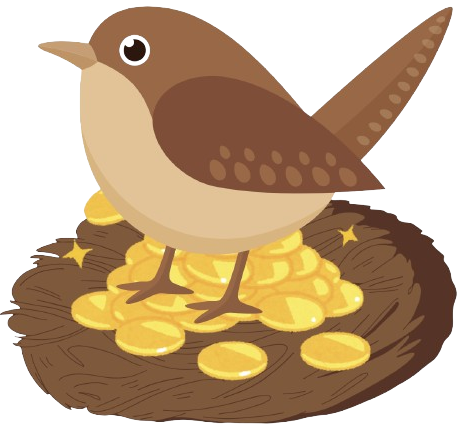
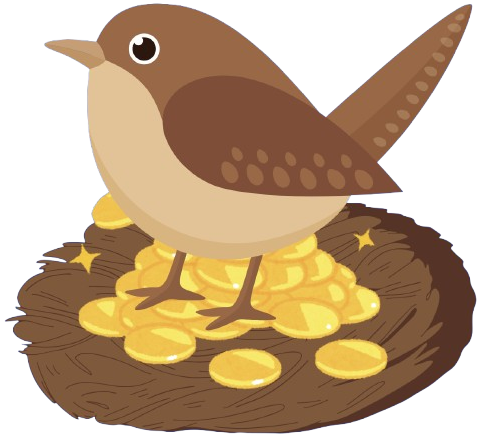
onboarding screen

diff --git a/lib/screens/onboarding_screen.dart b/lib/screens/onboarding_screen.dart
@@ -68,7 +68,7 @@ class FirstOnboardingPage extends StatelessWidget {
                         textAlign: TextAlign.center,
                         style: GoogleFonts.poppins(
                           fontSize: 20,
-                          color: const Color(0xFFC5A787),
+                          color: Colors.black,
                           fontWeight: FontWeight.normal,
                         ),
                       ),
@@ -95,7 +95,7 @@ class FirstOnboardingPage extends StatelessWidget {
                         textAlign: TextAlign.center,
                         style: GoogleFonts.poppins(
                           fontSize: 20,
-                          color: const Color(0xFFC5A787),
+                          color: Colors.black,
                           fontWeight: FontWeight.normal,
                         ),
                       ),
@@ -137,6 +137,7 @@ class FirstOnboardingPage extends StatelessWidget {
 
 
 
+
 class SecondOnboardingPage extends StatelessWidget {
   final PageController pageController;
 
@@ -148,14 +149,24 @@ class SecondOnboardingPage extends StatelessWidget {
       children: [
         Positioned.fill(
           child: Container(
-            color: const Color(0xFFF3E9DC),
+            decoration: const BoxDecoration(
+              gradient: LinearGradient(
+                colors: [
+                  Color(0xFF4E342E),
+                  Color(0xFF8D6E63),
+                  Color(0xFF4E342E),
+                ],
+                begin: Alignment.topRight,
+                end: Alignment.bottomLeft,
+              ),
+            ),
           ),
         ),
         Positioned(
           top: 65,
           left: 15,
           child: IconButton(
-            icon: const Icon(Icons.arrow_back, color: Colors.brown, size: 30),
+            icon: const Icon(Icons.arrow_back, color: Colors.white, size: 30),
             onPressed: () {
               pageController.previousPage(
                 duration: const Duration(milliseconds: 300),
@@ -165,53 +176,79 @@ class SecondOnboardingPage extends StatelessWidget {
           ),
         ),
         Positioned(
-          top: 130,
-          left: 20,
+          top: MediaQuery.of(context).size.height * 0.15,
+          left: 50,
           right: 20,
-          child: Center(
-            child: Image.asset(
-              'assets/sarang_wallet_icon.png',
-              height: 280,
-              width: 280,
-            ),
-          ),
-        ),
-        Positioned(
-          top: 430, 
-          left: 60,
-          right: 60,
-          child: Container(
-            padding: const EdgeInsets.all(20),
-            decoration: BoxDecoration(
-              color: const Color(0xFF63402C),
-              borderRadius: BorderRadius.circular(12),
-            ),
+          child: Padding(
+            padding: const EdgeInsets.symmetric(horizontal: 20.0),
             child: Column(
-              mainAxisSize: MainAxisSize.min,
+              crossAxisAlignment: CrossAxisAlignment.start, 
               children: [
-                Text(
-                  'Welcome to',
-                  style: GoogleFonts.poppins(
-                    color: const Color(0xFFF3E9DC),
-                    fontSize: 15,
+                Padding(
+                  padding: const EdgeInsets.only(bottom: 10.0),
+                  child: Text(
+                    'Welcome to',
+                    style: GoogleFonts.poppins(
+                      color: Colors.white,
+                      fontSize: 15, 
+                    ),
                   ),
                 ),
-                const SizedBox(height: 10),
                 SizedBox(
-                  height: 40,
+                  height: 70, 
                   // ignore: deprecated_member_use
                   child: TypewriterAnimatedTextKit(
-                  text: const ['Sarang Wallet'],
-                  textStyle: GoogleFonts.dancingScript(
-                    color: const Color(0xFFF3E9DC),
-                    fontSize: 30,
-                    fontWeight: FontWeight.bold,
+                    text: const ['Sarang Wallet'],
+                    textStyle: GoogleFonts.dancingScript(
+                      color: Colors.white,
+                      fontSize: 37,
+                      fontWeight: FontWeight.bold,
                     ),
                     speed: const Duration(milliseconds: 250),
                     totalRepeatCount: 1,
                   ),
                 ),
               ],
+            ),
+          ),
+        ),
+        Positioned(
+          top: MediaQuery.of(context).size.height * 0.30, 
+          left: 20,
+          right: 20,
+          child: Center(
+            child: Padding(
+              padding: const EdgeInsets.all(20.0), 
+              child: Stack(
+                alignment: Alignment.center,
+                children: [
+                  Container(
+                    decoration: BoxDecoration(
+                      shape: BoxShape.circle,
+                      color: Colors.transparent, 
+                      boxShadow: [
+                        BoxShadow(
+                          color: const Color(0xFF301F17).withOpacity(0.7),
+                          offset: const Offset(0, 20),
+                          blurRadius: 40,
+                        ),
+                      ],
+                    ),
+                    height: 280,
+                    width: 280,
+                  ),
+                  Container(
+                    decoration: const BoxDecoration(
+                      shape: BoxShape.circle,
+                    ),
+                    child: Image.asset(
+                      'assets/sarang_wallet_icon.png',
+                      height: 230,
+                      width: 230,
+                    ),
+                  ),
+                ],
+              ),
             ),
           ),
         ),
